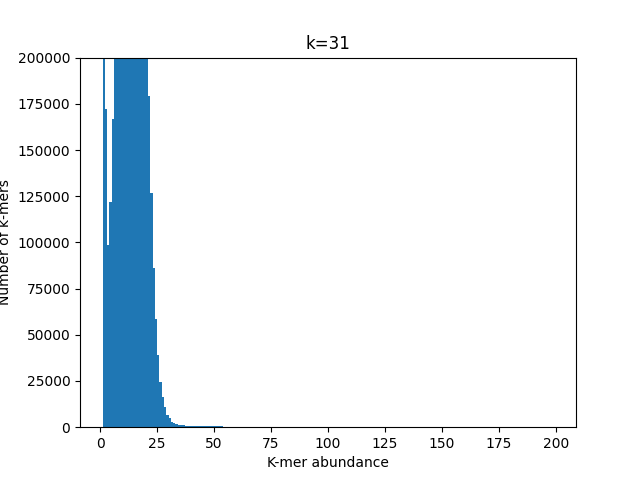
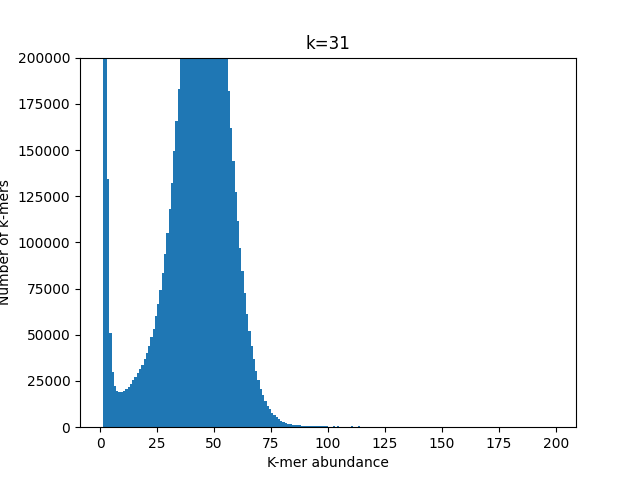
feat: new histograms ran with 50% sample size

Changed region(s): [[0.1562, 0.125, 0.4688, 0.9062]]

diff --git a/optikmer.py b/optikmer.py
@@ -10,11 +10,15 @@ import numpy as np
 # Initialize possible k-mer lengths & empty dictionary for k-mer counts
 kmer_lengths = [11, 21, 31, 41, 51, 61, 71, 81, 91]
 test_kmer_lengths = [18]
-test_kmer_lengths_2 = [19]
+test_kmer_lengths_2 = [91]
 kmer_counts = Counter()
+
+best_kmer = 0
+best_unique_kmers = 0
 
 # plot the distribution of kmer counts for specific kmer length
 def plotKmerCounts(k):
+  global best_kmer, best_unique_kmers
   counts, bins, _ = plt.hist(kmer_counts.values(), bins=range(1, 200))
   plt.xlabel('K-mer abundance')
   plt.ylabel('Number of k-mers')
@@ -27,7 +31,7 @@ def plotKmerCounts(k):
   
   # Find indices of local minima within the specified range
   local_minima = argrelextrema(counts[bin_indices], np.less)
-  
+
   # Print local minima
   start_point = 1
   for local_min in local_minima[0]:
@@ -38,10 +42,12 @@ def plotKmerCounts(k):
   unique_kmers = 0
   for i in range(start_point, 198):
     unique_kmers += counts[i]
-    
+  if unique_kmers > best_unique_kmers:
+    best_unique_kmers = unique_kmers
+    best_kmer = k
+
   plt.close()
   print (f'k={k}, unique_kmers={unique_kmers}')\
-
 
 def getSampleReads(fastq_file):
   reads = [] # while instead of loadin all into memory to save time 
@@ -49,7 +55,7 @@ def getSampleReads(fastq_file):
   for record in SeqIO.parse(fastq_file, "fastq"):
     reads.append(str(record.seq))
     record_count += 1
-  return random.sample(reads, math.ceil(record_count * 0.15)) # sample 10% of reads take in as command line arg
+  return random.sample(reads, math.ceil(record_count * 0.5)) # sample 10% of reads take in as command line arg
   # return random.sample(reads, 10000) # sample 10000
 
 def recordKmers(reads, kmer_len): # also used by kmergenie
@@ -62,7 +68,8 @@ def recordKmers(reads, kmer_len): # also used by kmergenie
 def main():
   # Parse command-line arguments (fastq files)
   parser = argparse.ArgumentParser(description='Estimate the optimal k-mer length for de novo assembly using sampling.')
-  parser.add_argument('reads', type=str, help='A list of DNA sequencing reads (strings) in fastq format.')
+  parser.add_argument('reads', metavar='N', type=str, nargs='+',
+                       help='A list of DNA sequencing reads (strings) in fastq format.')
   args = parser.parse_args()
   
   # Obtain fastq files
@@ -70,15 +77,17 @@ def main():
 
   # Extract reads from each fastq file with getReads function (defined above)
   # and record it in kmer_counts dictionary
-  file_reads = getSampleReads(rfiles)
-  for k in kmer_lengths:
-    recordKmers(file_reads, k)
-    kmer_counts.clear()
+  for k in kmer_lengths: # 9 kmer lengths
+    for rfile in rfiles: # big files
+      file_reads = getSampleReads(rfile)
+      recordKmers(file_reads, k)
+      kmer_counts.clear()
   
   # Plot the distribution of kmer counts for each kmer length
     
 if __name__ == '__main__':
   main()
+  print(f'Best kmer length: {best_kmer}, {best_unique_kmers} unique kmers')
 
 
 # Example usage
